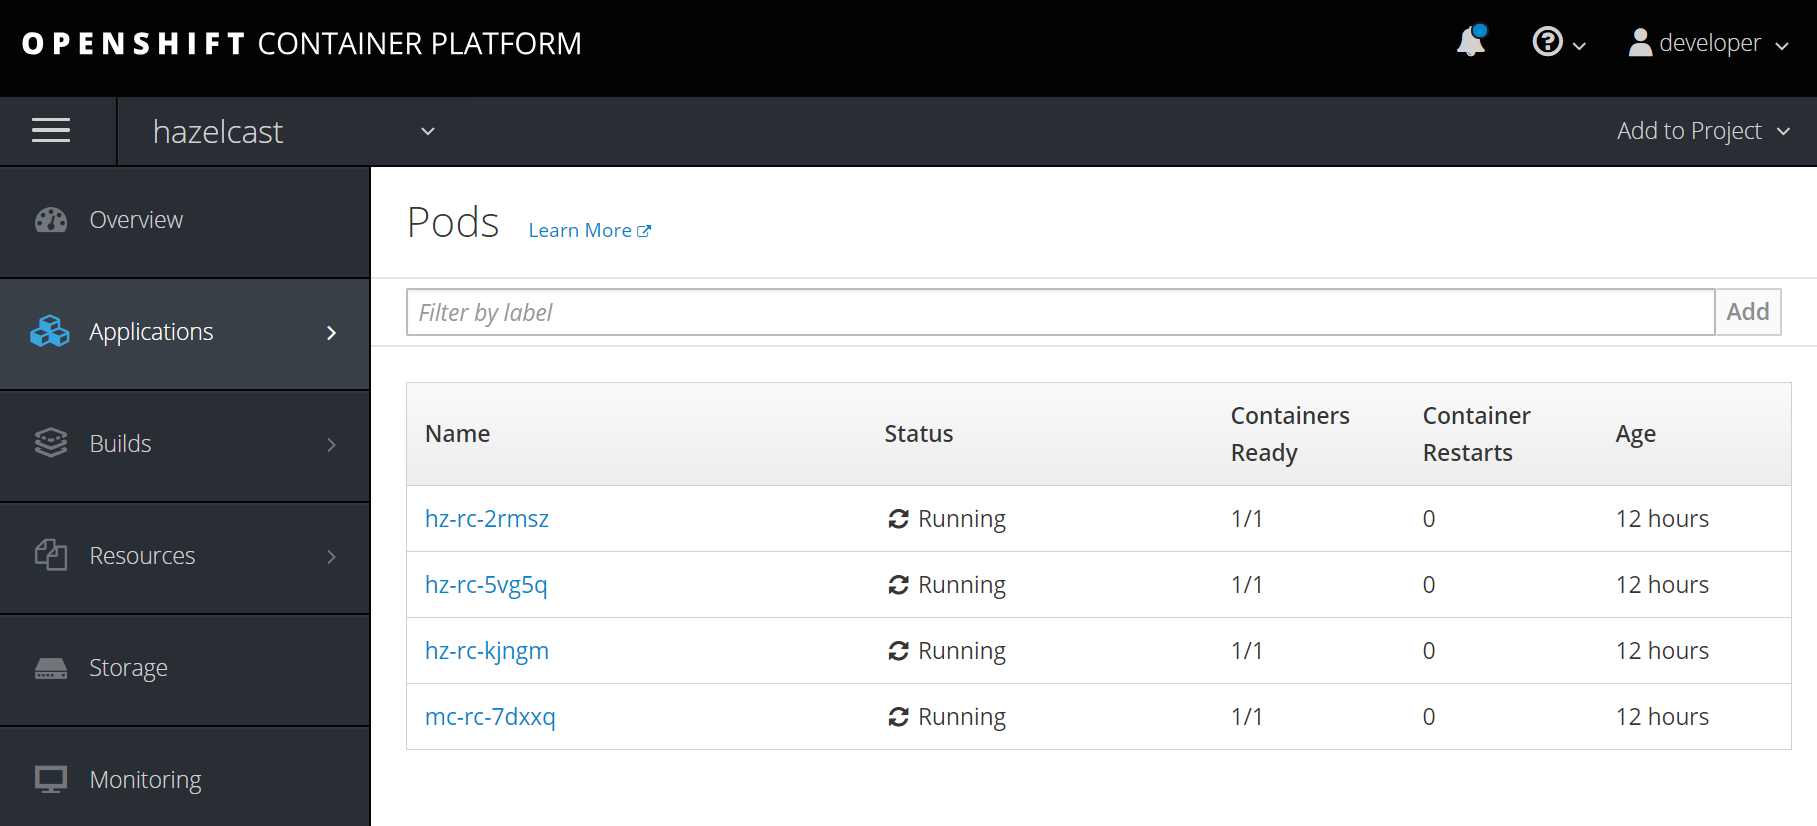
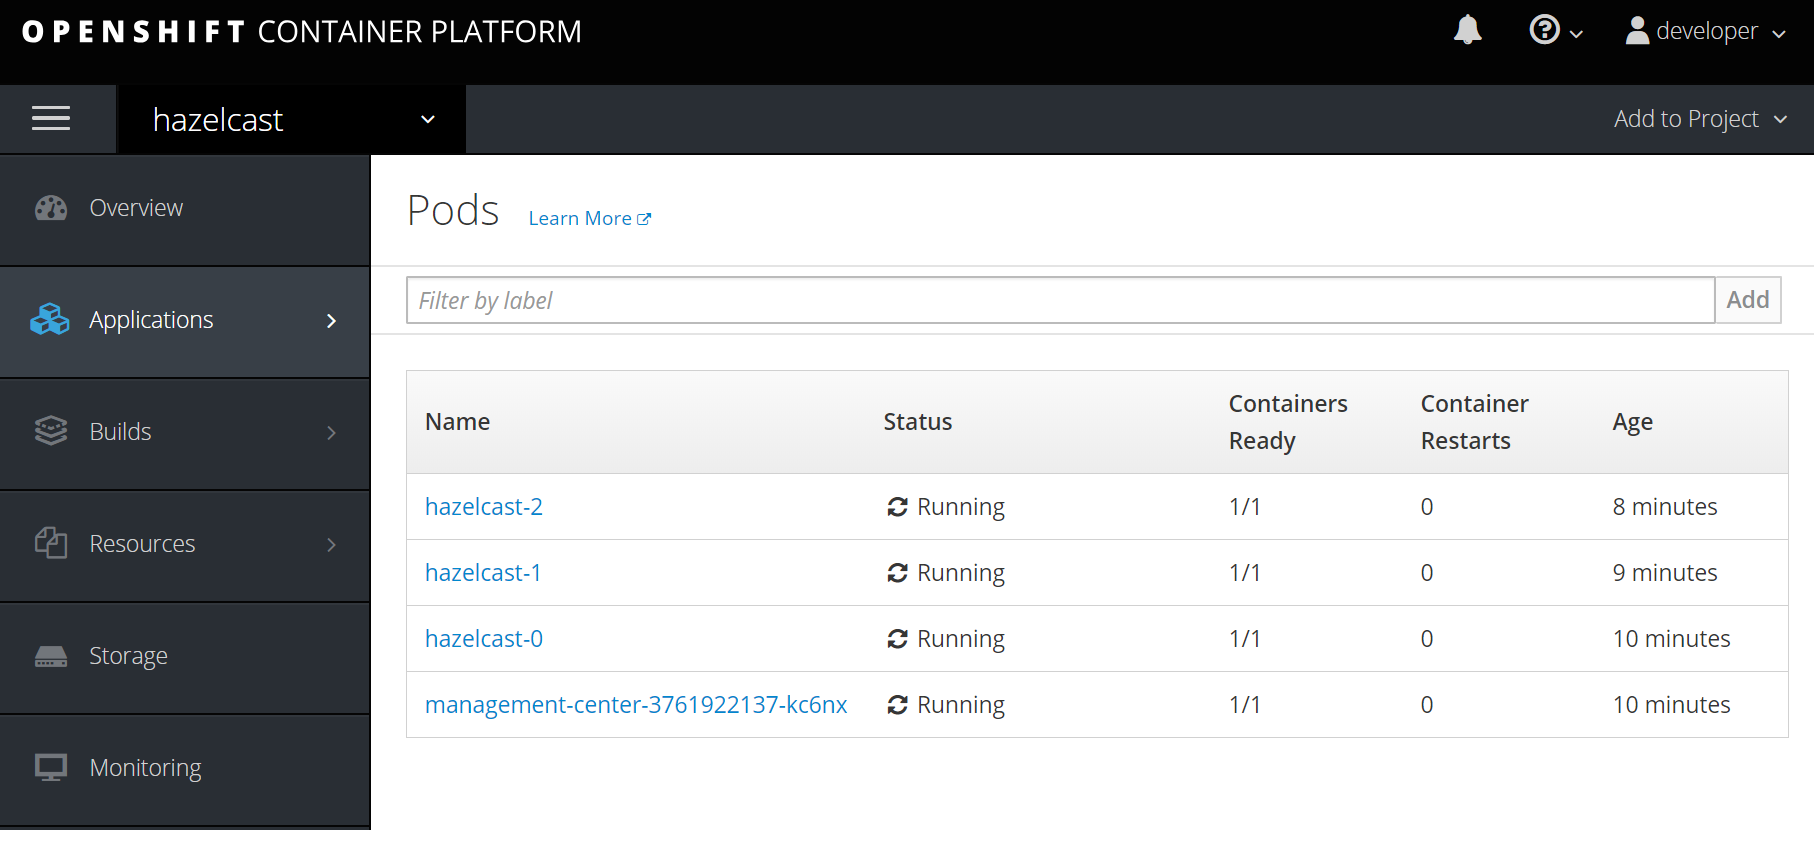
Update README.md for OpenShift

diff --git a/hazelcast-integration/openshift/README.md b/hazelcast-integration/openshift/README.md
@@ -107,25 +107,33 @@ To check all created OpenShift resources, use the following command.
 
 ```
 $ oc get all
-NAME             READY     STATUS    RESTARTS   AGE
-po/hz-rc-5pl4f   1/1       Running   0          3m
-po/hz-rc-dfz84   1/1       Running   0          3m
-po/hz-rc-pjps7   1/1       Running   0          3m
-po/mc-rc-w5d5l   1/1       Running   0          3m
+NAME                       DESIRED   CURRENT   UP-TO-DATE   AVAILABLE   AGE
+deploy/management-center   1         1         1            1           7m
 
-NAME       DESIRED   CURRENT   READY     AGE
-rc/hz-rc   3         3         3         3m
-rc/mc-rc   1         1         1         3m
+NAME                              DESIRED   CURRENT   READY     AGE
+rs/management-center-3761922137   1         1         1         7m
 
-NAME                          TYPE        CLUSTER-IP   EXTERNAL-IP   PORT(S)    AGE
-svc/hzservice                 ClusterIP   None         <none>        5701/TCP   3m
-svc/management-center-service ClusterIP   None         <none>        8080/TCP   3m
+NAME                       DESIRED   CURRENT   UP-TO-DATE   AVAILABLE   AGE
+deploy/management-center   1         1         1            1           7m
+
+NAME                     DESIRED   CURRENT   AGE
+statefulsets/hazelcast   3         3         7m
+
+NAME                                    READY     STATUS    RESTARTS   AGE
+po/hazelcast-0                          1/1       Running   0          7m
+po/hazelcast-1                          1/1       Running   0          6m
+po/hazelcast-2                          1/1       Running   0          5m
+po/management-center-3761922137-kc6nx   1/1       Running   0          7m
+
+NAME                            TYPE        CLUSTER-IP   EXTERNAL-IP   PORT(S)    AGE
+svc/hazelcast-service           ClusterIP   None         <none>        5701/TCP   7m
+svc/management-center-service   ClusterIP   None         <none>        8080/TCP   7m
 ```
 
 Please check that the `STATUS` is `Running` for all PODs. Then, to check the logs for each replica, use the following command:
 
 ```
-$ oc logs po/hz-rc-5pl4f
+$ oc logs po/hazelcast-2
 
 ...
 Kubernetes Namespace: hazelcast
